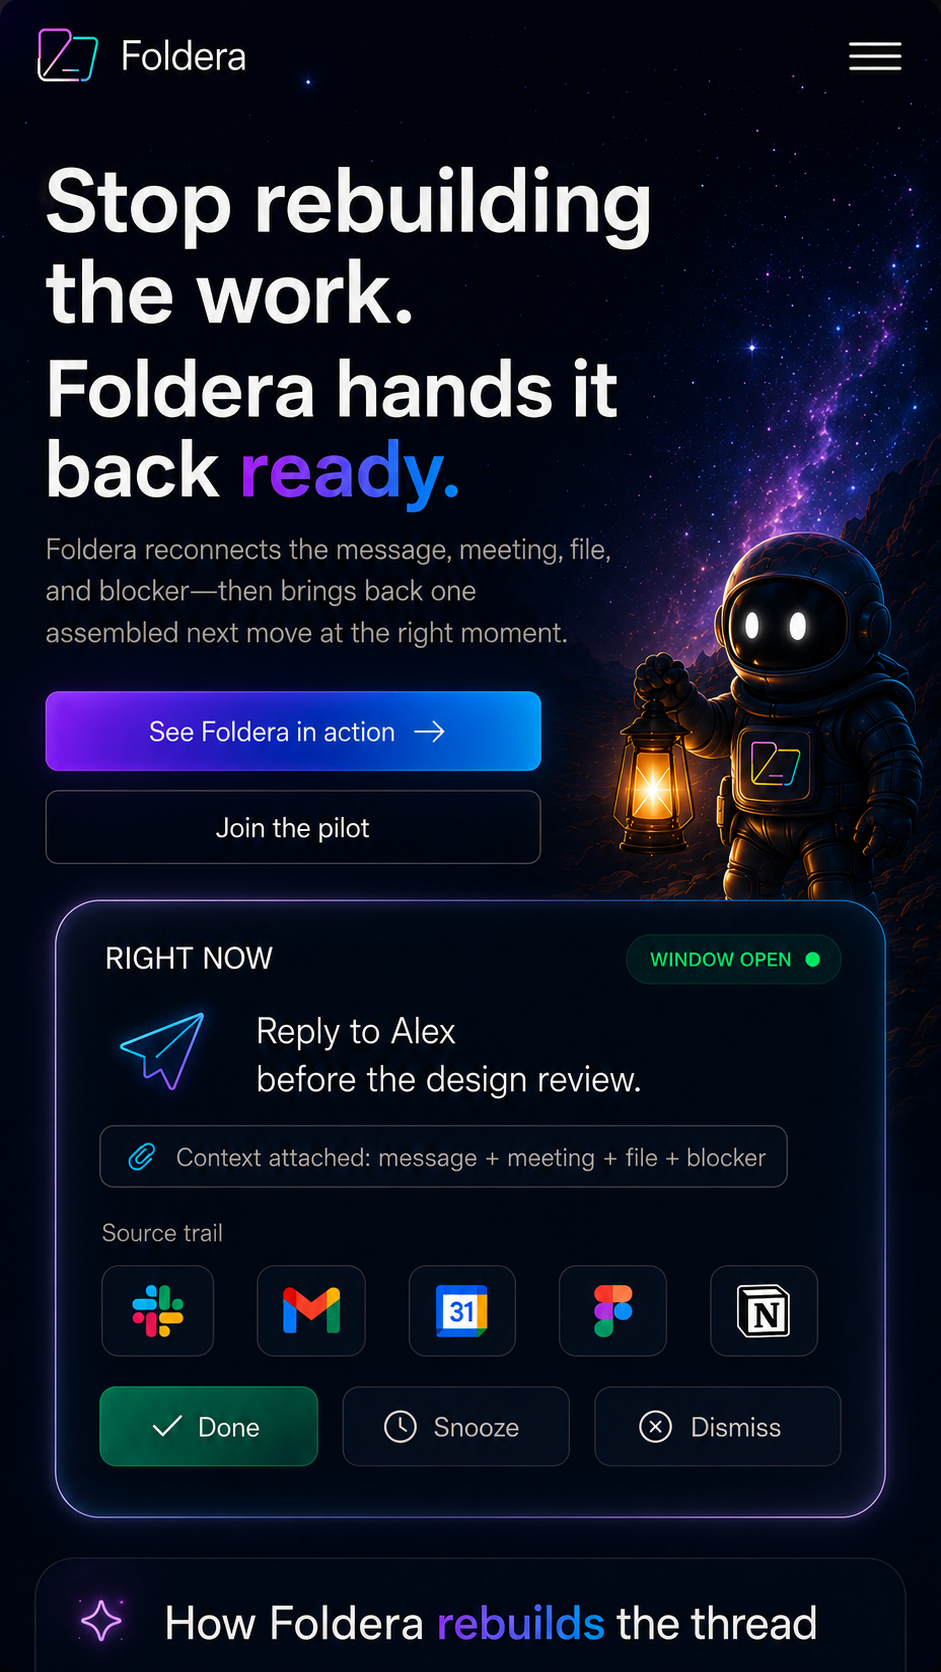
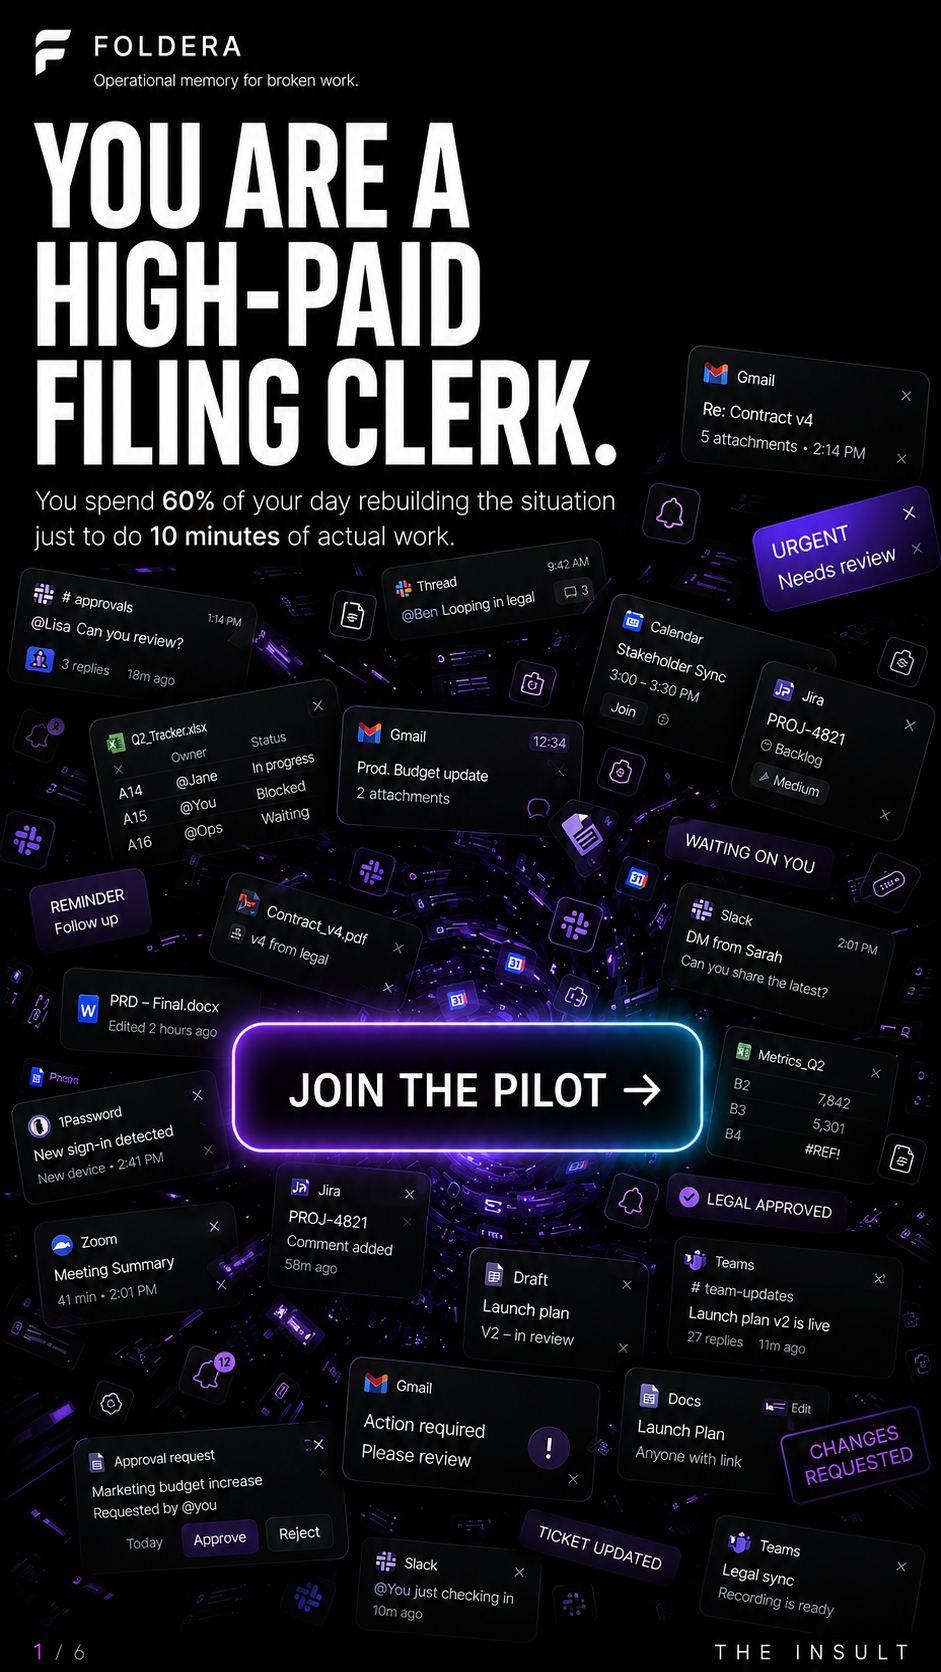
homepage filing-clerk image MVP

diff --git a/components/foldera/LandingPage.tsx b/components/foldera/LandingPage.tsx
@@ -7,15 +7,17 @@ export function LandingPage({ isAuthenticated: _isAuthenticated = false }: { isA
   return (
     <main className="min-h-screen bg-[#02040a] text-white">
       <section className="relative mx-auto w-full max-w-[1600px] overflow-hidden bg-[#02040a]">
-        <div className="relative w-full">
-          <Image
-            src="/foldera-homepage-final.png"
-            alt="Foldera homepage visual target"
-            width={941}
-            height={1672}
-            priority
-            className="block h-auto w-full select-none md:hidden"
-          />
+        <div className="relative w-full md:min-h-0">
+          <div className="relative aspect-[9/16] min-h-[100svh] w-full overflow-hidden md:hidden">
+            <Image
+              src="/foldera-homepage-final.png"
+              alt="Foldera homepage visual target"
+              fill
+              priority
+              sizes="100vw"
+              className="select-none object-cover object-[center_top]"
+            />
+          </div>
           <Image
             src="/foldera-homepage-final-desktop.png"
             alt="Foldera homepage visual target"